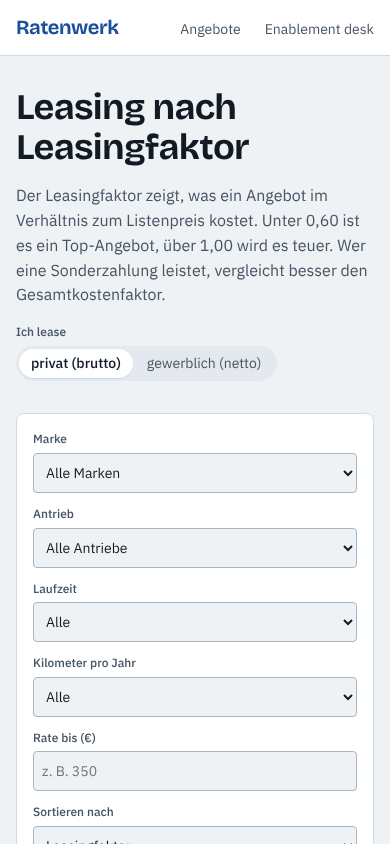
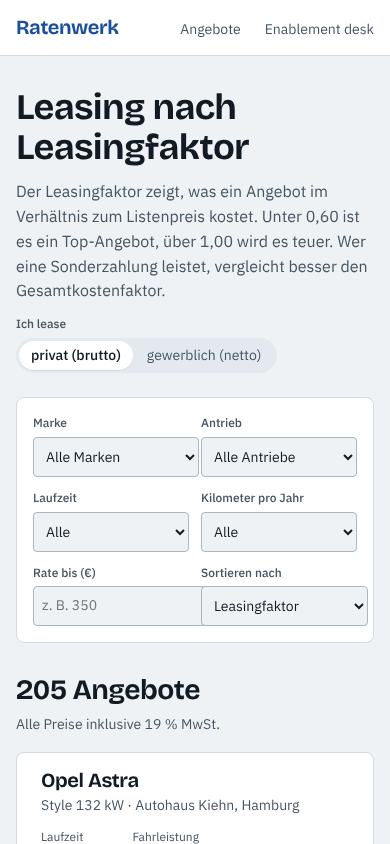
Larastan fixes, full-history checkout for the benchmark, playbooks, README, screenshots
Claude-Session: https://claude.ai/code/session_01UwvC3ThniRazKvkA62GtYT

diff --git a/apps/web/src/features/offers/offers.module.css b/apps/web/src/features/offers/offers.module.css
@@ -50,6 +50,8 @@
   border-radius: var(--radius-sm);
   padding: var(--space-2) var(--space-2);
   min-height: 2.5rem;
+  width: 100%;
+  min-width: 0;
 }
 
 .fieldError {

diff --git a/apps/api/app/Console/Commands/GoldenMaster.php b/apps/api/app/Console/Commands/GoldenMaster.php
@@ -114,9 +114,10 @@ class GoldenMaster extends Command
     {
         $fixture = json_decode((string) file_get_contents($fixturePath), true);
         $approved = json_decode((string) file_get_contents($approvedPath), true);
-        if (! is_array($fixture) || ! is_array($approved)) {
+        if (! is_array($fixture) || ! is_array($approved) || ! array_is_list($approved)) {
             throw new RuntimeException('Golden master fixture or approved changes unreadable');
         }
+        /** @var list<array<string, mixed>> $approved */
         $byChange = array_fill_keys(array_column($approved, 'id'), 0);
         $identical = 0;
         $explained = 0;

diff --git a/apps/api/app/Providers/AppServiceProvider.php b/apps/api/app/Providers/AppServiceProvider.php
@@ -33,7 +33,7 @@ class AppServiceProvider extends ServiceProvider
         Model::preventLazyLoading(! $this->app->isProduction());
         Model::preventSilentlyDiscardingAttributes(! $this->app->isProduction());
 
-        DB::listen(fn (QueryExecuted $q) => $this->app->make(Telemetry::class)->query($q->time));
+        DB::listen(fn (QueryExecuted $q) => $this->app->make(Telemetry::class)->query((float) ($q->time ?? 0.0)));
 
         // Dealers authenticate with a bearer token; only its sha256 is stored.
         Auth::viaRequest('dealer-token', function (Request $request): ?Dealer {

diff --git a/README.md b/README.md
@@ -1,0 +1,151 @@
+# leasing-ai-enablement
+
+AI-first engineering on a real product codebase, measured. The product is a car-leasing
+marketplace: a Laravel 13 API with search, quotes and dealer offers, and a Next.js 16 web app.
+Around it sits the enablement work an AI-enabler role is hired to do. Each part produces numbers
+that a team can check.
+
+![Offer search: leasing factor on a scale](docs/screenshots/search.png)
+
+| Part | What it is | Measured |
+| --- | --- | --- |
+| **Guarded AI refactor** | The legacy procedural rate calculator was rewritten by an agent and merged only behind a golden master and a mutation-score gate | 10,240 recorded legacy quotes: 4,096 identical to the cent, 6,144 explained by two approved bug fixes, **0 unapproved**. Mutation score **100%** |
+| **AI pull-request reviewer** | Team rules first, then a model (Claude or OpenAI, swappable), with guardrails: a comment must cite and quote a line the PR changed | Blind benchmark of 24 PRs: the model caught **17 of 18** planted defects with no comments on clean PRs. The shipped mode caught **16 of 18** |
+| **Paved road for coding agents** | One AGENTS.md for Codex, Claude Code and Cursor; Claude Code hooks and skills; an MCP server with the codebase's own knowledge and guarded checks | Hooks block re-recording the golden master, pipe-to-shell installs and credential writes (tested) |
+| **Measuring the rollout** | A staggered AI-tool rollout across 24 teams, analysed four ways | True gain +19%. Naive before/after **+33%**, adopters vs the rest **+63%**, staggered DiD **+17%** (interval +10% to +28%) |
+
+## The product
+
+```
+apps/api   Laravel 13, PHP 8.3
+  app/Domain/Leasing      RateCalculator (annuity with residual value), terms, quotes
+  legacy/rate_calc.php    the 2017 calculator, kept as the reference
+  GET  /api/offers        search: make, model, fuel, term, mileage, budget, sort, pages
+  GET  /api/offers/makes  facets
+  GET  /api/offers/{id}
+  POST /api/offers/{id}/quote      your own term, mileage and down payment
+  POST|PATCH|DELETE /api/dealer/offers   bearer token (sha256 stored), OfferPolicy ownership
+apps/web   Next.js 16, React 19, Motion
+  /                 offer search, filters in the URL, leasing factor scale
+  /offers/{id}      quote calculator
+  /enablement       the measured results below, read from the committed reports
+```
+
+Leasing domain as German buyers know it:
+- **Leasingfaktor:** rate as a percentage of the list price.
+- **Gesamtkostenfaktor:** the same, including the down payment and one-off costs.
+- Private offers gross, business offers net, compared net to net.
+- Dealer discounts lower what is financed, while the residual value stays on the list price.
+
+Glossary: [docs/glossary.md](docs/glossary.md).
+
+Engineering details:
+- **Search caching.** Results are cached under a key built from every filter plus a catalogue
+  version, so any write invalidates them on any cache store. Responses carry strong ETags (304s),
+  and a test proves there is no N+1 query.
+- **Telemetry.** Every request writes one JSON log line with request id, route, status, duration,
+  query count and time, and cache hit. The same data goes into `Server-Timing` headers. No tokens
+  or bodies are logged (tested).
+- **Rates are computed, never accepted.** The API refuses `monthly_rate_cents` from a dealer.
+
+## Guarded AI refactor
+
+[Playbook](docs/playbooks/ai-refactoring.md).
+
+**What it found:**
+- **AC-1:** business offers compared a net rate to a gross price and looked 19% cheaper than they
+  were.
+- **AC-2:** an unsupported mileage was silently priced as 10,000 km.
+
+Both are approved changes with a reason and an owner.
+
+**What mutation testing found that the golden master missed:** an approval that allowed "any
+difference" in two fields hid a wrong VAT conversion. Approvals now name the exact value they expect.
+
+![Enablement desk](docs/screenshots/enablement.png)
+
+## AI reviewer
+
+[Playbook](docs/playbooks/ai-review.md). `packages/reviewer`:
+- a diff parser;
+- 15 team rules from AGENTS.md (money as floats, rates from clients, writes without the policy
+  check, SQL from strings, removed eager loading, destructive migrations, tokens in logs, cache keys
+  missing a filter, swallowed errors, `any`, unsafe HTML, credentials, …);
+- Anthropic and OpenAI providers with forced JSON;
+- guardrails;
+- a GitHub Action that posts a COMMENT review, never an approval;
+- a local CLI.
+
+The benchmark PRs were written by an agent that never saw the reviewer. The model answers were
+recorded once and are replayed, so the result is reproducible. **The guardrails did not pay on this
+set:** they removed one true finding and no noise. The playbook says so and says what would change
+that.
+
+## Paved road
+
+- [AGENTS.md](AGENTS.md): conventions and agent rules, read by every tool. Codex reads it natively;
+  [CLAUDE.md](CLAUDE.md) points to it.
+- `.claude/settings.json` hooks:
+  - [guard.mjs](.claude/hooks/guard.mjs) blocks edits to the pricing reference, the pricing config,
+    the quality gates, legacy code and env files; it also blocks credentials, `curl | sh`,
+    `--record`, force pushes and `migrate:fresh`;
+  - [after-edit.mjs](.claude/hooks/after-edit.mjs) lints PHP at once and reminds the agent of the
+    gates after a domain edit.
+- Skills: `add-search-filter`, `characterise-before-refactor`, `review-ai-pr`.
+- [MCP server](packages/mcp) (`.mcp.json`):
+  - `leasing_glossary` (German and English)
+  - `team_conventions` (by topic)
+  - `api_routes` (read from `routes/api.php`)
+  - `run_check`: an allow-list of checks, arguments validated, no shell, timeouts
+- A real example of why: the Laravel skeleton's own agent file told agents to pipe an installer
+  from the internet into a shell. It is kept in
+  [docs/playbooks/examples](docs/playbooks/examples/skeleton-agent-bootstrap.md.txt), and the hook
+  blocks exactly that.
+
+## Measuring the rollout
+
+[Playbook](docs/playbooks/measuring-ai-adoption.md) ·
+[results](reports/adoption/RESULTS.md).
+
+The simulated organisation has the problems real ones have:
+- faster teams volunteer first;
+- the whole organisation drifts faster;
+- holidays hit everyone at once;
+- rework rises until the paved road is in;
+- later cohorts gain more.
+
+The analysis only sees pull requests and rollout dates.
+
+## Run it
+
+```bash
+cd apps/api && composer install && cp .env.example .env && php artisan key:generate
+php artisan migrate --seed && php artisan serve          # API on :8000
+php artisan test --parallel                              # 75 Pest tests
+php artisan leasing:golden-master --verify && composer mutate && composer stan
+cd ../.. && npm ci && npm test                           # reviewer, MCP + hooks, web
+cd apps/web && npm run build && npx playwright test      # 15 end-to-end tests on the real stack
+cd ../../experiments/adoption && pip install -e '.[test]' && pytest -q && python -m adoption.evaluate
+```
+
+## Tests
+
+| Suite | |
+| --- | --- |
+| API (Pest): domain, golden master, search, caching, ETags, N+1, quotes, dealer auth and ownership, validation, telemetry | 75 |
+| Mutation testing of the domain code | 100% |
+| Reviewer (diff, rules, guardrails, providers, GitHub client, scoring) | 37 |
+| MCP server and Claude Code hooks | 14 |
+| Web components (loading, error, retry, empty states, URL filters, desk) | 11 |
+| End to end with axe (search, filters, business net, empty, API failure and retry, skeletons, quote calculator, 404, desk, keyboard, phone) | 15 |
+| Adoption experiment (truth isolation, recovery, interval coverage, phases) | 12 |
+
+## Limits
+
+- The marketplace data, the dealers and the engineering organisation are simulated. The rate maths
+  and the leasing conventions are real; the offers are not.
+- The benchmark has 18 defects. One more catch moves recall by 5.6 points.
+- The model answers were recorded from Claude running as a Claude Code subagent, not through the
+  API, and the defects were planted by the same model family.
+- Larastan and the GitHub Action run in CI; the PHAR could not be run in the environment the code
+  was written in.

diff --git a/docs/playbooks/ai-refactoring.md b/docs/playbooks/ai-refactoring.md
@@ -1,0 +1,71 @@
+# Playbook: refactoring legacy code with an AI agent
+
+**Worked example:** `apps/api/legacy/rate_calc.php` (procedural PHP from 2017, globals, floats) was
+replaced by `app/Domain/Leasing/RateCalculator.php`. An AI agent did the rewrite. The gate below
+decided what merged.
+
+## Why a gate
+
+A coding agent rewrites a module in minutes and the result reads better than the original. It
+cannot tell which of the old behaviours are bugs and which are promises to dealers who check the
+numbers against their own spreadsheets. Review alone does not catch a rounding change in one cent
+of 10,000 quotes. The gate does.
+
+## The gate
+
+1. **Record before touching anything.** `php artisan leasing:golden-master --record` ran the legacy
+   code over 10,240 inputs: 4 segments, 4 terms, 5 mileages (including one the code does not
+   support), 4 down payments, 8 prices, private and business, with and without one-off costs. It is
+   recorded once. The Claude Code hook blocks `--record` afterwards.
+2. **Refactor.** Keep the arithmetic order where results must match to the cent: the residual value
+   is rounded first and the rate last, as before.
+3. **Verify.** Every difference is a refactoring mistake (fix it), an old bug to keep (write it
+   down), or an old bug to fix (an approved change).
+4. **Mutation score.** `composer mutate` (Pest) must kill at least the share of mutants in
+   `config/quality.json` (85%).
+
+## What the first verify run found
+
+| | Cases |
+| --- | --- |
+| Identical to the cent | 4,096 (every private quote with a supported mileage) |
+| AC-1: business factors compared net rate to gross price | 4,096 |
+| AC-2: an unsupported mileage was silently priced as 10,000 km | 2,048 |
+| Unapproved | 0 |
+
+Both findings were real bugs, invisible in review:
+- **AC-1:** business offers ranked 19% cheaper than they were.
+- **AC-2:** a "TODO other km" priced 25,000 km/year like 10,000.
+
+### Sign-off record
+
+| Change | Decision | Owner |
+| --- | --- | --- |
+| AC-1 | Fix: net rate against net price; rates unchanged | Pricing owner |
+| AC-2 | Fix: reject unsupported mileage; the API never offered it | Pricing owner |
+
+(In this repository the owner is a role, recorded here as the process requires. In a real team it
+is a named person and a link to the decision.)
+
+## What mutation testing found that the golden master missed
+
+The first mutation run scored 93.6%. Two surviving mutants multiplied business one-off costs by
+VAT instead of dividing. The golden master passed them because **AC-1 allowed any difference** in the
+business factor fields.
+
+The fix is in the process, not in the tests:
+- An approval now names the exact result it expects (`"expect": "net-basis"`), and verify checks it.
+- With that, the score is 100%.
+- Two remaining mutants are equivalent (a cast PHP applies anyway). They are marked in the code
+  with the reason, not hidden.
+
+**Rule:** an approval that says "these fields may differ" is a blind spot. Approve the new value,
+not the difference.
+
+## Checklist for the next AI refactor
+
+- [ ] Inputs recorded from the old code, including the inputs you believe are invalid
+- [ ] Fixture committed before the first line of the refactor
+- [ ] Every difference classified; approvals name expected values and an owner
+- [ ] Mutation score at or above the gate; equivalent mutants marked with a reason
+- [ ] PR lists each approved change and how many cases it explains

diff --git a/docs/playbooks/measuring-ai-adoption.md b/docs/playbooks/measuring-ai-adoption.md
@@ -1,0 +1,58 @@
+# Playbook: measuring what AI coding tools do to a team
+
+The question every engineering leader is asked: did the tools make us faster, and at what cost? The
+usual answer, a before/after chart from the teams that volunteered, is wrong in a predictable
+direction. This playbook says how to roll out so the question can be answered, and how to answer it.
+The numbers come from `experiments/adoption` (`reports/adoption/RESULTS.md`).
+
+## The trap, in numbers
+
+The experiment simulates a realistic organisation of 24 teams over 32 weeks:
+- faster teams volunteer first;
+- the whole organisation drifts faster every week;
+- holidays hit everyone at once;
+- rework rises until the paved road is in place;
+- later teams benefit more because the playbook improves.
+
+The truth is a +19% throughput gain. What each way of measuring reports:
+
+| How it was measured | Throughput |
+| --- | --- |
+| Before vs after, adopters only | +33% |
+| Adopters vs teams that never adopted | +63% |
+| Two-way fixed effects regression | +13% |
+| Staggered difference-in-differences (Callaway–Sant'Anna) | **+17%** (95% interval +10% to +28%) |
+
+The first two answers are the ones that end up in slides, and both overstate the gain by 13 to 44
+points.
+
+## How to roll out
+
+1. **Stagger on purpose.** Roll out in cohorts on dates you set (here weeks 8, 14 and 20). Keep a
+   few teams on the old setup for the measurement window.
+2. **Do not let only volunteers go first.** If you must, record it: the analysis then compares each
+   cohort with teams that have not started yet.
+3. **Measure from what the systems already record:** merged PRs per engineer, cycle time, and rework
+   (reverted or hot-fixed within 14 days). No surveys in the numbers.
+4. **Say the size of the effect you can detect before you start.** With 24 teams the interval is
+   about ±9 points. A 5% effect will not show; do not promise to show it.
+
+## Rework needs its own view
+
+The single average for rework was useless: −3% against a true +17%, with an interval from −21% to
++20%. By phase, the estimate shows what happened and what to do:
+
+| Phase | Estimate | Truth |
+| --- | --- | --- |
+| First weeks after adoption | +35% | +45% |
+| After the paved road (review guardrails, conventions, hooks) | −17% | +5% |
+
+**Rule:** judge rework per phase over longer windows, and roll out the paved road with the tools,
+not after them.
+
+## What goes into the decision memo
+
+- Throughput and cycle time effects with their intervals, from the staggered comparison
+- Rework by phase
+- What the paved road changed (rules added, hooks, reviewer findings)
+- What could not be measured, and why

diff --git a/docs/playbooks/ai-review.md b/docs/playbooks/ai-review.md
@@ -1,0 +1,42 @@
+# Playbook: AI pull-request review
+
+The group already reviews pull requests with AI. The question is not whether the model finds
+things; it is what it misses, how much noise it adds, and whether guardrails help. This reviewer
+(`packages/reviewer`) was measured once on 24 pull requests written blind: 18 with one planted
+defect, 6 clean (`benchmarks/review/results/first_run.json`).
+
+## Results of the first run
+
+| Mode | Defects caught | Precision | Comments on clean PRs |
+| --- | --- | --- | --- |
+| Team rules only | 3 of 18 | 75% | 0 |
+| Model only, no guardrails | 17 of 18 | 89.5% | 0 |
+| Model only, guardrails | 16 of 18 | 88.9% | 0 |
+| Rules + model, guardrails (shipped) | 16 of 18 | 84.2% | 0 |
+
+## What the results say
+
+- **The model does the catching.** The team rules are fast and free, but they caught only 3 of the
+  18 planted defects. Most defects were logic, rounding, ownership and cache mistakes that no regex
+  sees.
+- **The guardrails did not pay on this set.** They require a comment to cite and quote a changed
+  line, and they dedupe, cap and filter by confidence. Here they removed one true finding and no
+  noise, because this model made no comments on clean PRs. Guardrails exist for the weeks a model
+  is noisy or misquotes lines, and this run does not show they are needed. The next blind set, and
+  a cheaper model, will show whether they earn their place.
+- **Rules add a little noise.** The rules + model mode loses precision to one rule comment that
+  caught nothing.
+
+## How the team uses it
+
+- Every pull request gets a COMMENT review (`.github/workflows/ai-review.yml`). It never approves.
+- Rule comments name their rule; model comments say so. A person decides.
+- Pricing, authorisation and migrations always get a human reviewer who knows the domain.
+- When the reviewer misses a defect or adds noise in real use, the case goes into the next blind
+  set via `WRITING_PRS.md`, written by someone who has not seen the reviewer, never into the
+  current set.
+
+## Caveats
+
+- The planted defects and the reviewing model are from the same model family.
+- 18 defects is a small set: one more catch moves recall by 5.6 points.
